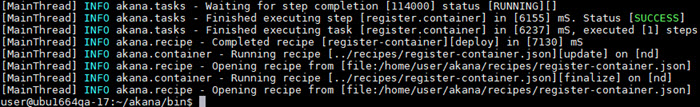
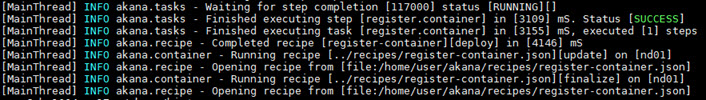
ATMO-28293 updates to automation examples doc

diff --git a/sp/automation/automation_examples.htm b/sp/automation/automation_examples.htm
@@ -10,7 +10,7 @@ type: page
 nav-title: Automation Examples
 ---
 <h2 id="top">Automation Examples</h2>
-<p>Simple examples of using automation to install the platform. </p>
+<p>Simple examples of using automation to install the platform.</p>
 <p><a href="automation_ref.htm" class="button secondary">Automation Reference</a> 
 <a href="../platform_install/installing_akana_api_platform.htm" class="button secondary">Installing the Akana API Platform 2018.0.x</a></p>
 
@@ -80,9 +80,8 @@ nav-title: Automation Examples
 <h3 id="overview_e2e"><strong>Automation recipe examples: overview</strong></h3>
 <p>General notes about the examples included in this document:</p>
 <ul>
-	<li>The examples use MobaXTerm to install remotely on a Linux machine. There are two sessions going: SSH and SFTP.</li>
 	<li>In these examples, the user home directory is /home/user. Substitute your own directory.</li>
-	<li>In this example, the install dir is /home/user/akana. Substitute your own install dir.</li>
+	<li>In this example, the value for the install directory (INSTALL_DIR property) is /home/user/akana. Substitute your own install directory.</li>
 	<li>You can encrypt passwords. This example does not use encryption.</li>
 </ul>
 <p><a href="#top">back to top</a></p>
@@ -229,7 +228,7 @@ DEFAULT_PORT=9900</pre>
 
 <h3 id="recipe_run">Run the recipe using the automation script</h3>
 <p>In this example, the properties file is <strong>bootstrap.properties</strong>.</p>
-<p>Therefore, the script command is:</p>
+<p>Therefore, the script command to run from the /akana/bin folder is:</p>
 <pre>
 ./jython.sh -Dorg.slf4j.simpleLogger.logFile=System.out -m akana.container --recipe ../recipes/bootstrap.json --props bootstrap.properties</pre>
 <p>The result of running the automation script is shown below.</p>
@@ -240,8 +239,7 @@ DEFAULT_PORT=9900</pre>
 
 
 <h3 id="run_in_browser">Run the Akana Administration Console in the browser</h3>
-<p>You can now access the Akana Administration Console via the browser. In this example, the URL is:</p>
-<pre>ubu1664qa-17.akana.roguewave.com:9900/admin/login.html</pre>
+<p>You can now access the Akana Administration Console via the browser: <strong>{hostname}:{port}/admin/login.html</strong>.</p>
 <p>Log in, using the default username and password (administrator/password) unless you specified a different username and password.</p>
 <p>To verify the container name, after login, go to the System tab. The container name is displayed in the panel header, as shown below. In this example the container name is pm01 (see <a href="#properties_file_set_up">Set up the properties file</a> above).</p>
 <p><img src="assets/automation01_basic_03_admin_console.jpg" alt="Running the Akana Administration Console for the container" /></p>
@@ -322,7 +320,7 @@ DB_SCHEMA_TIMEOUT=4000000000</pre>
 
 <h3 id="pm_cm_script">PM/CM container: automation script</h3>
 <p>In this example, the recipe is <strong>pm-cm-all.json</strong> and the properties file is <strong>pm-cm-all.properties</strong>.</p>
-<p>Therefore, the script command is:</p>
+<p>Therefore, the script command to run from the /akana/bin folder is:</p>
 <pre>./jython.sh -Dorg.slf4j.simpleLogger.logFile=System.out -m akana.container --recipe ../recipes/pm-cm-all.json --props pm-cm-all.properties</pre>
 <p>When the recipe has successfully completed, you'll see a message such as the below:</p>
 <p><img src="assets/automation03_pm_cm_all_script.jpg" alt="pm-cm-all.json, successful completion" /></p>
@@ -331,13 +329,13 @@ DB_SCHEMA_TIMEOUT=4000000000</pre>
 
 
 <h3 id="pm_cm_results">PM/CM container: results</h3>
-<p>You can now access the Akana Administration Console for the container. In this example: <strong>ubu1664qa-17.akana.roguewave.com:9900/admin/login.html</strong>.</p>
+<p>You can now access the Akana Administration Console for the container: <strong>{hostname}:{port}/admin/login.html</strong>, as shown below.</p>
 <p>You can see from the <strong>Installed Features</strong> page that Community Manager is installed and all pending tasks are complete.</p>
 <p><img src="assets/automation03_pm_cm_all_admin_console.jpg" alt="Running the Akana Administration Console for the pm-cm-all container" /></p>
 <p>In this example, you can also access the Policy Manager and Community Manager via the browser, as shown below.</p>
-<p>Policy Manager: <strong>http://ubu1664qa-17.akana.roguewave.com:9900</strong> (default credentials, used in this example, are administrator/password).</p>
+<p>Policy Manager:<strong> {hostname}:{port}</strong><strong> </strong>(default credentials, used in this example, are administrator/password).</p>
 <p><img src="assets/automation03_pm_cm_all_pm.jpg" alt="Running Community Manager for the pm-cm-all container" /></p>
-<p>Community Manager: <strong>http://ubu1664qa-17.akana.roguewave.com:9900/atmosphere/#/home/login</strong> (default credentials, used in this example, are administrator@atmosphere/password).</p>
+<p>Community Manager: <strong>{hostname}:{port}/atmosphere/#/home/login</strong> (default credentials, used in this example, are administrator@atmosphere/password).</p>
 <p><img src="assets/automation03_cm.jpg" alt="Running the developer portal" /></p>
 <p><a href="#top">back to top</a></p>
 
@@ -375,7 +373,7 @@ DB_SCHEMA_TIMEOUT=4000000000</pre>
 <p>Properties file (<strong>nd-cm-all.properties</strong>):</p>
 <pre>INSTALL_DIR=/home/user/akana
 DEFAULT_PORT=9905
-CONTAINER_NAME=nd
+CONTAINER_NAME=nd01
 PM_PORT=9900
 PM_HOST=ubu1664qa-17.akana.roguewave.com</pre>
 <p><a href="#top">back to top</a></p>
@@ -384,7 +382,7 @@ PM_HOST=ubu1664qa-17.akana.roguewave.com</pre>
 
 <h3 id="nd_cm_script">ND container: automation script</h3>
 <p>In this example, the recipe is <strong>nd-cm-all.json</strong> and the properties file is <strong>nd-cm-all.properties</strong>.</p>
-<p>Therefore, the script command is (line break added for display purposes):</p>
+<p>Therefore, the script command to run from the /akana/bin folder is:</p>
 <pre>./jython.sh -Dorg.slf4j.simpleLogger.logFile=System.out -m akana.container --recipe ../recipes/nd-cm-all.json --props nd-cm-all.properties</pre>
 <p>When the recipe has successfully completed, you'll see a message such as the below:</p>
 <p><img src="assets/automation03_pm_cm_all_script.jpg" alt="pm-cm-all.json, successful completion" /></p>
@@ -393,7 +391,7 @@ PM_HOST=ubu1664qa-17.akana.roguewave.com</pre>
 
 
 <h3 id="nd_cm_results">ND container: results</h3>
-<p>You can now access the Akana Administration Console for the ND container. In this example: <strong>ubu1664qa-17.akana.roguewave.com:9905/admin/login.html</strong>.</p>
+<p>You can now access the Akana Administration Console for the ND container. In this example: <strong>{hostname}:9905/admin/login.html</strong>.</p>
 <p>You can see from the <strong>Installed Features</strong> page that Network Director is installed and all pending tasks are complete.</p>
 <p><img src="assets/automation03_nd_cm_all_admin_console.jpg" alt="Running the Akana Administration Console for the ND container" /></p>
 <p>The next step is to register the ND container with PM.</p>
@@ -434,7 +432,7 @@ PM_HOST=ubu1664qa-17.akana.roguewave.com</pre>
 <pre>TENANT_ID=atmosphere
 ORG_KEY=uddi:soa.com:registryorganization
 PM_PORT=9900
-CONTAINER_NAME=nd
+CONTAINER_NAME=nd01
 INSTALL_DIR=/home/user/akana</pre>
 <p>In the above, the <strong>ORG_KEY</strong> value can be specific to the tenant.</p>
 <p><a href="#top">back to top</a></p>
@@ -450,7 +448,7 @@ INSTALL_DIR=/home/user/akana</pre>
 <h3 id="nd_register_results">Registering the ND container: results</h3>
 <p>When the recipe has successfully completed, you'll see a message such as the below.</p>
 <p><img src="assets/automation03_register_container_success.jpg" alt="Register Container recipe successful" /></p>
-<p>Now, log in to Policy Manager on the PM/CM container (in this example, <strong>http://ubu1664qa-17.akana.roguewave.com:9900</strong>).</p>
+<p>Now, log in to Policy Manager on the PM/CM container (in this example, <strong>{hostname}:9900</strong>).</p>
 <p>You'll see that the ND container is now registered, as shown below.</p>
 <p><img src="assets/automation03_register_container_started.jpg" alt="ND container is registered" /></p>
 <p><a href="#top">back to top</a></p>

diff --git a/ag/glossary_pm_nd.htm b/ag/glossary_pm_nd.htm
@@ -201,7 +201,7 @@ nav-title: Glossary of Terms (Policy Manager)
 <dd>CATEGORY: Registry</dd>
 
 
-<dt>Category Scheme</dt>
+<dt id="gl_pm_categoryscheme">Category Scheme</dt>
 <dd>A <strong>Category Scheme</strong> is a set of classification codes (Categories) that represent different aspects of a web service (for example, products, services, or technical specifications).</dd>
 <dd>CATEGORY: Registry</dd>
 
@@ -579,6 +579,11 @@ nav-title: Glossary of Terms (Policy Manager)
 <dt>JNDI URL</dt>
 <dd>The URL where the Java Naming and Directory Interface (JNDI) server can be accessed.</dd>
 <dd>CATEGORY: Registry</dd>
+
+
+	<dt id="gl_jython">Jython</dt>
+	<dd>A scripting language. The API platform supports Jython for creating reusable scripts, useful for automating processes.</dd>
+	<dd>Jython comes with Akana product installation. It is the default scripting language for the platform, used for all external scripts.</dd>
 
 
 <dt>Kerberos</dt>
@@ -1183,6 +1188,11 @@ The availability of security audit trail data is based on a combination of stand
 	<dt>Trusted Domain</dt>
 	<dd>A Trusted Domain is a method of securing a business relationship between two domains by authenticating a user and the domain the user is associated with in order to establish a <strong>trust.</strong> The trust state is established between two Policy Manager Subsystem Instances, each representing a different domain. The type of authorization required is based on access requirements (for example, a user accessing a web service).</dd>
 	<dd>CATEGORY: Security</dd>
+	
+	
+<dt id="gl_pm_uddi">UDDI</dt>
+	<dd>Acronym for Universal Description, Discovery, and Integration. UDDI is an XML-based protocol, sponsored by <a href="https://www.oasis-open.org/" title="https://www.oasis-open.org/" target="_blank">OASIS</a>, that includes an international registry that allows businesses to publish service listings and discover each other, and to define how the services or software applications interact over the Internet.</dd>
+	<dd>The platform assigns unique UDDI keys to resources and references the UDDI keys in various operations.</dd>
 	
 	
 	<dt>Un-Manage (Service)</dt>
